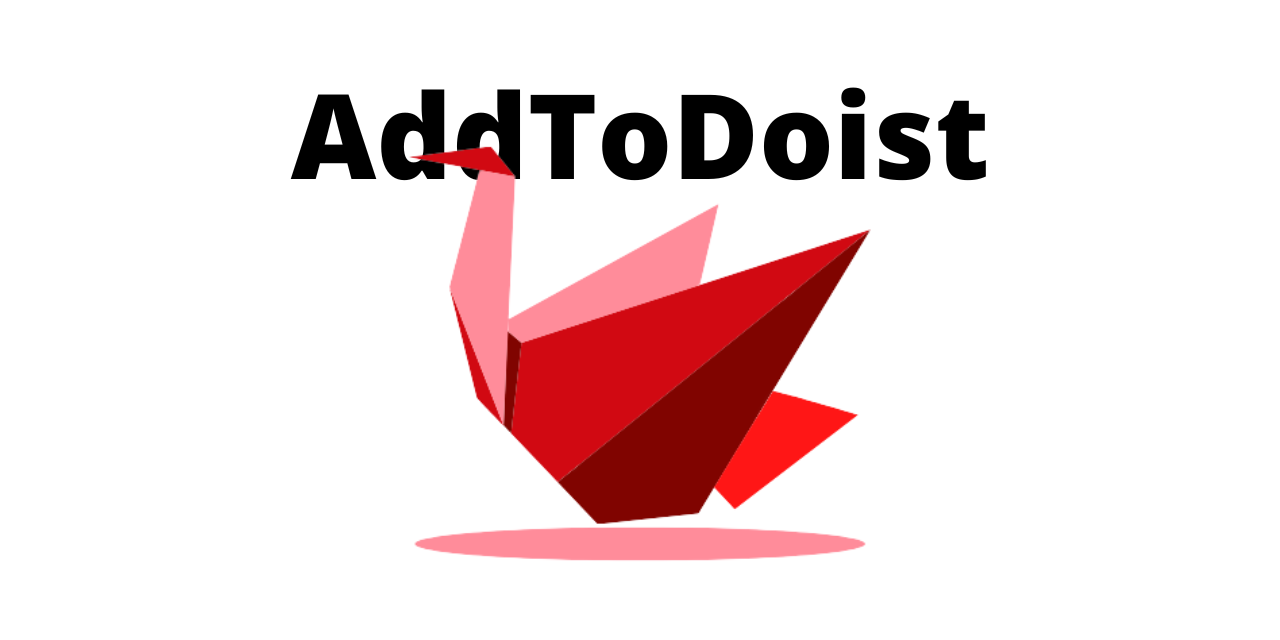
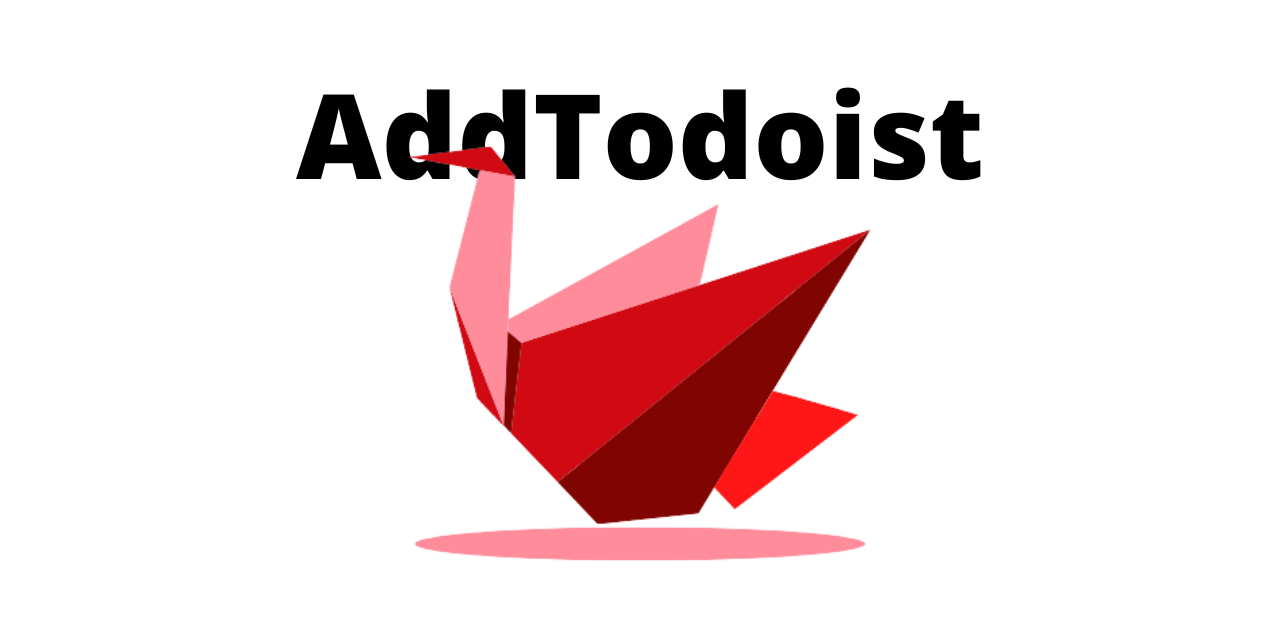
fix: Name rebrand to fit standards for publishing

Changed region(s): [[0.2188, 0.125, 0.7812, 0.2812]]

diff --git a/src/TWHookServer/Texts.ts b/src/TWHookServer/Texts.ts
@@ -6,19 +6,24 @@ enum TWHookServerTexts {
   ADDED_TO_ACCOUNT = '🔴 Added to your account',
   CANT_DELETE = '🔴 Can\'t delete your account. Try again. If the problem persists, contact @dubisdev_',
   DELETED_ACCOUNT = '🔴 All your account data has been deleted',
-  ALERT_DELETE = '🔴 Are you sure you want to delete your account? This action CAN NOT be undone. \nType\n/deleteall\nto continue'
+  ALERT_DELETE = '🔴 Are you sure you want to delete your account? This action CAN NOT be undone. \nType\n/deleteall\nto continue',
 }
 
 export const generateInitText = (userId: string) => `
 🔴 Hi there!\n\
-I'm AddToDoist bot and I'm here to help you save tweets and threads to your Todoist account.\n\
+I'm AddTodoist bot and I'm here to help you save tweets and threads to your Todoist account.\n\
 \nFirst of all, you must cofigure me for making me able to access your account.\n\n\
 Follow this steps:\n\
 1. Go to https://todoist.com/oauth/authorize?client_id=${process.env.TODOIST_CLIENT_ID}&scope=data:read_write&state=${userId}\n\
 2. Grant app permissions.\n\
 3. When you are done I will come back to set up your projects cofiguration.`;
 
-export const generateConfigText = ({username, email, projectName, projectId}) => `
+export const generateConfigText = ({
+  username,
+  email,
+  projectName,
+  projectId,
+}) => `
 🔴 This is your current configuration:\n\
 - Username: ${username}\n\
 - Email: ${email}\n\

diff --git a/README.md b/README.md
@@ -1,6 +1,6 @@
 > **⚠ Not linked to @Doist or @Todoist**
 
-## 🐦 @AddToDoist &nbsp; [![Release status](https://github.com/AddToDoist/AddToDoist/actions/workflows/release.yml/badge.svg)](https://github.com/AddToDoist/AddToDoist/actions/workflows/release.yml)
+## 🐦 @AddTodoist &nbsp; [![Release status](https://github.com/AddTodoist/AddTodoist/actions/workflows/release.yml/badge.svg)](https://github.com/AddTodoist/AddTodoist/actions/workflows/release.yml)
 
 🤖 ***A Twitter bot that will help you save tweets and threads to your Todoist account***
 
@@ -12,6 +12,6 @@
 
 ## Contributing
 
-The bot has associated hosting costs so any help to cover them is welcome. You can do it through a small donation at [BuyMeACoffee](https://www.buymeacoffee.com/dubisdev). Also any feedback, [issue](https://github.com/AddToDoist/AddToDoist/issues) or PR is welcome 💗
+The bot has associated hosting costs so any help to cover them is welcome. You can do it through a small donation at [BuyMeACoffee](https://www.buymeacoffee.com/dubisdev). Also any feedback, [issue](https://github.com/AddTodoist/AddTodoist/issues) or PR is welcome 💗
 
 [!["Buy Me A Coffee"](https://www.buymeacoffee.com/assets/img/custom_images/orange_img.png)](https://www.buymeacoffee.com/dubisdev)
